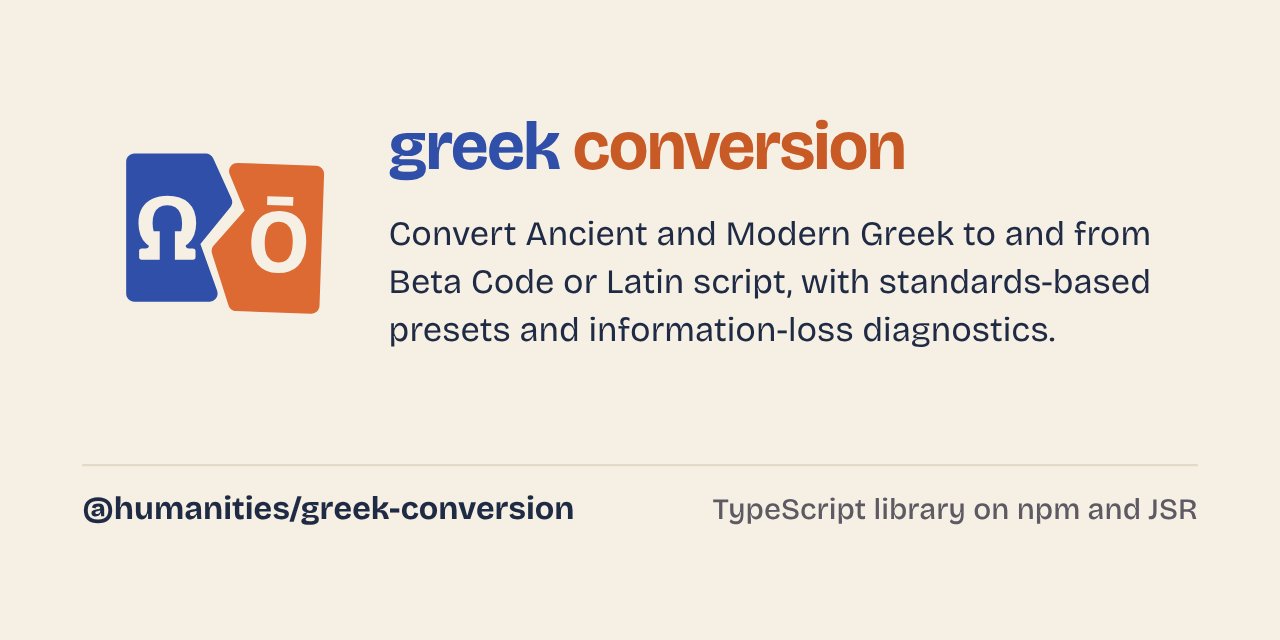
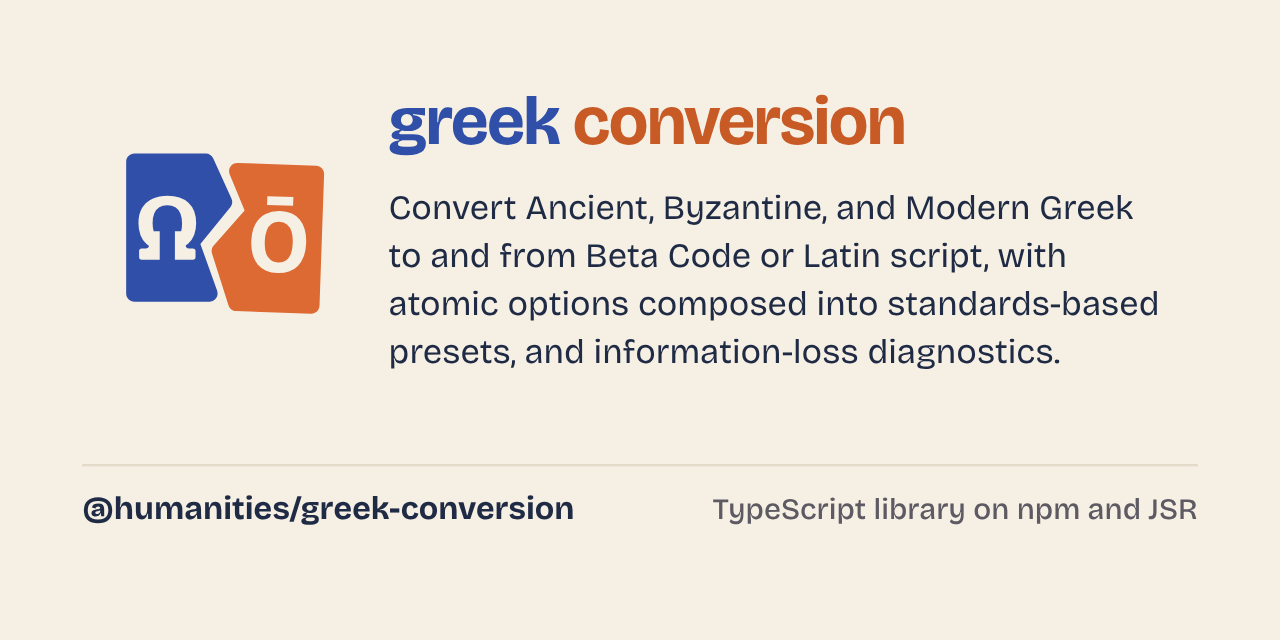
Social cards: the new description, and one for the Python package
The card gives the short form of the sentence that describes the project,
"Convert Ancient, Byzantine, and Modern Greek to and from Beta Code or
Latin script, with atomic options composed into standards-based presets,
and information-loss diagnostics.", on four lines clear of the bands
that GitHub and the networks crop. It is rendered from the design
system's CarteSociale component, as before: rendered with the old text,
the component gives the old card pixel for pixel.

The pages of the Python documentation give a card of their own, the same
with the Python package in its foot: greek-conversion, "Python library on
PyPI". The route middleware swaps the image and its text alternative
under /python/; scripts/check_metadata.ts checks both text alternatives.

Claude-Session: https://claude.ai/code/session_01HZH32SMSMKL8mChWyRh9H7

Changed region(s): [[0.2812, 0.3125, 0.9062, 0.5938], [0.2812, 0.1562, 0.7188, 0.2812]]

diff --git a/web/docs/src/routeData.ts b/web/docs/src/routeData.ts
@@ -2,6 +2,18 @@ import { defineRouteMiddleware } from "@astrojs/starlight/route-data";
 import { isPythonPage, pythonNavigation } from "./python_sidebar.ts";
 import { otherVersionHref, VERSIONS } from "./versions.ts";
 
+/**
+ * The Python package's social card, which the pages under `/python/` give
+ * as their sharing image in place of the TypeScript library's
+ * (`astro.config.mjs`); `scripts/check_metadata.ts` checks its text
+ * alternative against the card.
+ */
+const PYTHON_CARD = {
+  image: "social-python.png",
+  alt:
+    "greek conversion: convert Ancient, Byzantine, and Modern Greek to and from Beta Code or Latin script, with atomic options composed into standards-based presets, and information-loss diagnostics. greek-conversion, Python library on PyPI.",
+};
+
 export const onRequest = defineRouteMiddleware((context) => {
   const route = context.locals.starlightRoute;
   /*
@@ -24,6 +36,15 @@ export const onRequest = defineRouteMiddleware((context) => {
     );
     route.sidebar = sidebar;
     route.pagination = pagination;
+    for (const { attrs } of route.head) {
+      const name = attrs?.property ?? attrs?.name;
+      if (name === "og:image" || name === "twitter:image") {
+        attrs!.content = String(attrs!.content).replace(
+          /social\.png$/,
+          PYTHON_CARD.image,
+        );
+      } else if (name === "og:image:alt") attrs!.content = PYTHON_CARD.alt;
+    }
   }
   /*
    * A home page's title is its own: the tab reads "greek conversion", not

diff --git a/scripts/check_metadata.ts b/scripts/check_metadata.ts
@@ -115,11 +115,14 @@ expect(
 );
 /** The text of `docs/assets/greek-conversion-social-clair.png`. */
 const CARD =
-  "Convert Ancient and Modern Greek to and from Beta Code or Latin script, with standards-based presets and information-loss diagnostics.";
+  "Convert Ancient, Byzantine, and Modern Greek to and from Beta Code or Latin script, with atomic options composed into standards-based presets, and information-loss diagnostics.";
 /** Its foot: the package, and what and where it is. */
 const FOOT = "@humanities/greek-conversion, TypeScript library on npm and JSR.";
 const card = "greek conversion: " + CARD[0].toLowerCase() + CARD.slice(1) +
   " " + FOOT;
+/** The foot of `docs/assets/greek-conversion-social-python-clair.png`, the
+ * Python package's card, which has the same description. */
+const PYTHON_FOOT = "greek-conversion, Python library on PyPI.";
 const playground = await read("web/playground/index.html");
 expect(
   "the text alternative of the site's social card",
@@ -132,6 +135,14 @@ expect(
     playground.match(/property="og:image:alt"\s+content="([^"]*)"/)?.[1],
   ),
   card,
+);
+expect(
+  "the text alternative of the Python documentation's social card",
+  plain(
+    (await read("web/docs/src/routeData.ts")).match(/\balt:\s*"([^"]*)"/)
+      ?.[1],
+  ),
+  card.replace(FOOT, PYTHON_FOOT),
 );
 expect(
   "the description of context7.json, the index that coding agents query",

diff --git a/web/docs/scripts/sync_reference.ts b/web/docs/scripts/sync_reference.ts
@@ -10,8 +10,8 @@
  *
  * The project's marks (`docs/assets/`) are copied too, into `public/`: the
  * symbol of the header and the vertical logo of the home page, light and
- * dark, the favicon, and the social card that pages give as their sharing
- * image (`social.png`).
+ * dark, the favicon, and the social cards that pages give as their sharing
+ * image (`social.png`, and `social-python.png` under `/python/`).
  *
  * Run with `npm run sync`, which `npm run dev` and `npm run build` do first.
  */
@@ -68,11 +68,18 @@ for (
   );
 }
 
-// The sharing image (Open Graph), the design system's social card.
-await cp(
-  new URL("assets/greek-conversion-social-clair.png", DOCS),
-  new URL("social.png", PUBLIC),
-);
+// The sharing images (Open Graph), the design system's social cards: the
+// TypeScript library's, and the Python package's for the pages under
+// /python/.
+for (const [name, copy] of [
+  ["social-clair", "social"],
+  ["social-python-clair", "social-python"],
+]) {
+  await cp(
+    new URL(`assets/greek-conversion-${name}.png`, DOCS),
+    new URL(`${copy}.png`, PUBLIC),
+  );
+}
 
 console.log(`${names.length} reference documents synced from docs/.`);
 

diff --git a/web/playground/index.html b/web/playground/index.html
@@ -39,7 +39,7 @@
     <meta property="og:image:width" content="1280">
     <meta property="og:image:height" content="640">
     <meta property="og:image:alt"
-      content="greek conversion: convert Ancient and Modern Greek to and from Beta Code or Latin script, with standards-based presets and information-loss diagnostics. @humanities/greek-conversion, TypeScript library on npm and JSR.">
+      content="greek conversion: convert Ancient, Byzantine, and Modern Greek to and from Beta Code or Latin script, with atomic options composed into standards-based presets, and information-loss diagnostics. @humanities/greek-conversion, TypeScript library on npm and JSR.">
     <meta name="twitter:card" content="summary_large_image">
     <title>Playground | greek conversion</title>
     <link rel="icon" type="image/svg+xml"

diff --git a/CHANGELOG.md b/CHANGELOG.md
@@ -18,6 +18,15 @@ change.
 
 ### Changed
 
+- **The social card gives the sentence that describes the project**, in its
+  short form: "Convert Ancient, Byzantine, and Modern Greek to and from Beta
+  Code or Latin script, with atomic options composed into standards-based
+  presets, and information-loss diagnostics." It takes four lines, still
+  clear of the bands that GitHub and the networks crop. The pages of the
+  Python documentation give a card of their own, with the same text and the
+  Python package in its foot: `greek-conversion`, "Python library on PyPI".
+  `scripts/check_metadata.ts` checks both text alternatives against the
+  cards.
 - **Node.js 22.13.** The npm package asks for Node.js 22.13 or later in its
   `engines` field, instead of 24. The test suite runs there too, and the
   library gives the same output as under Node.js 24, also under the releases
